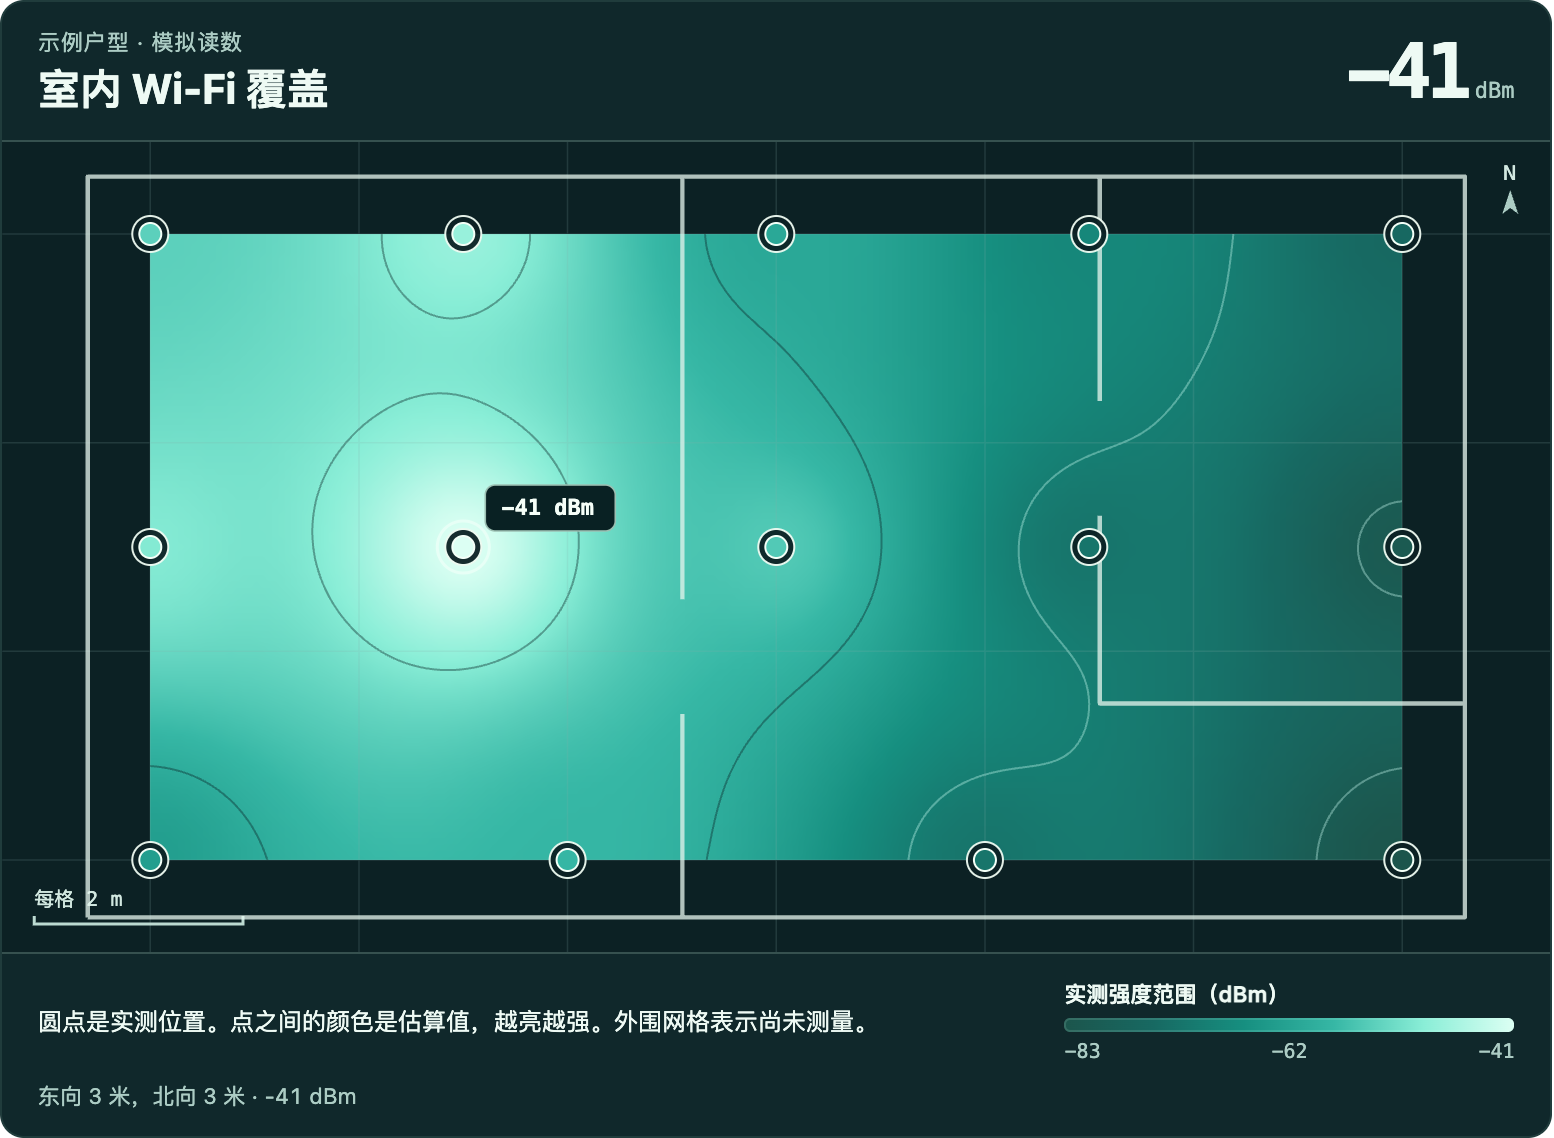
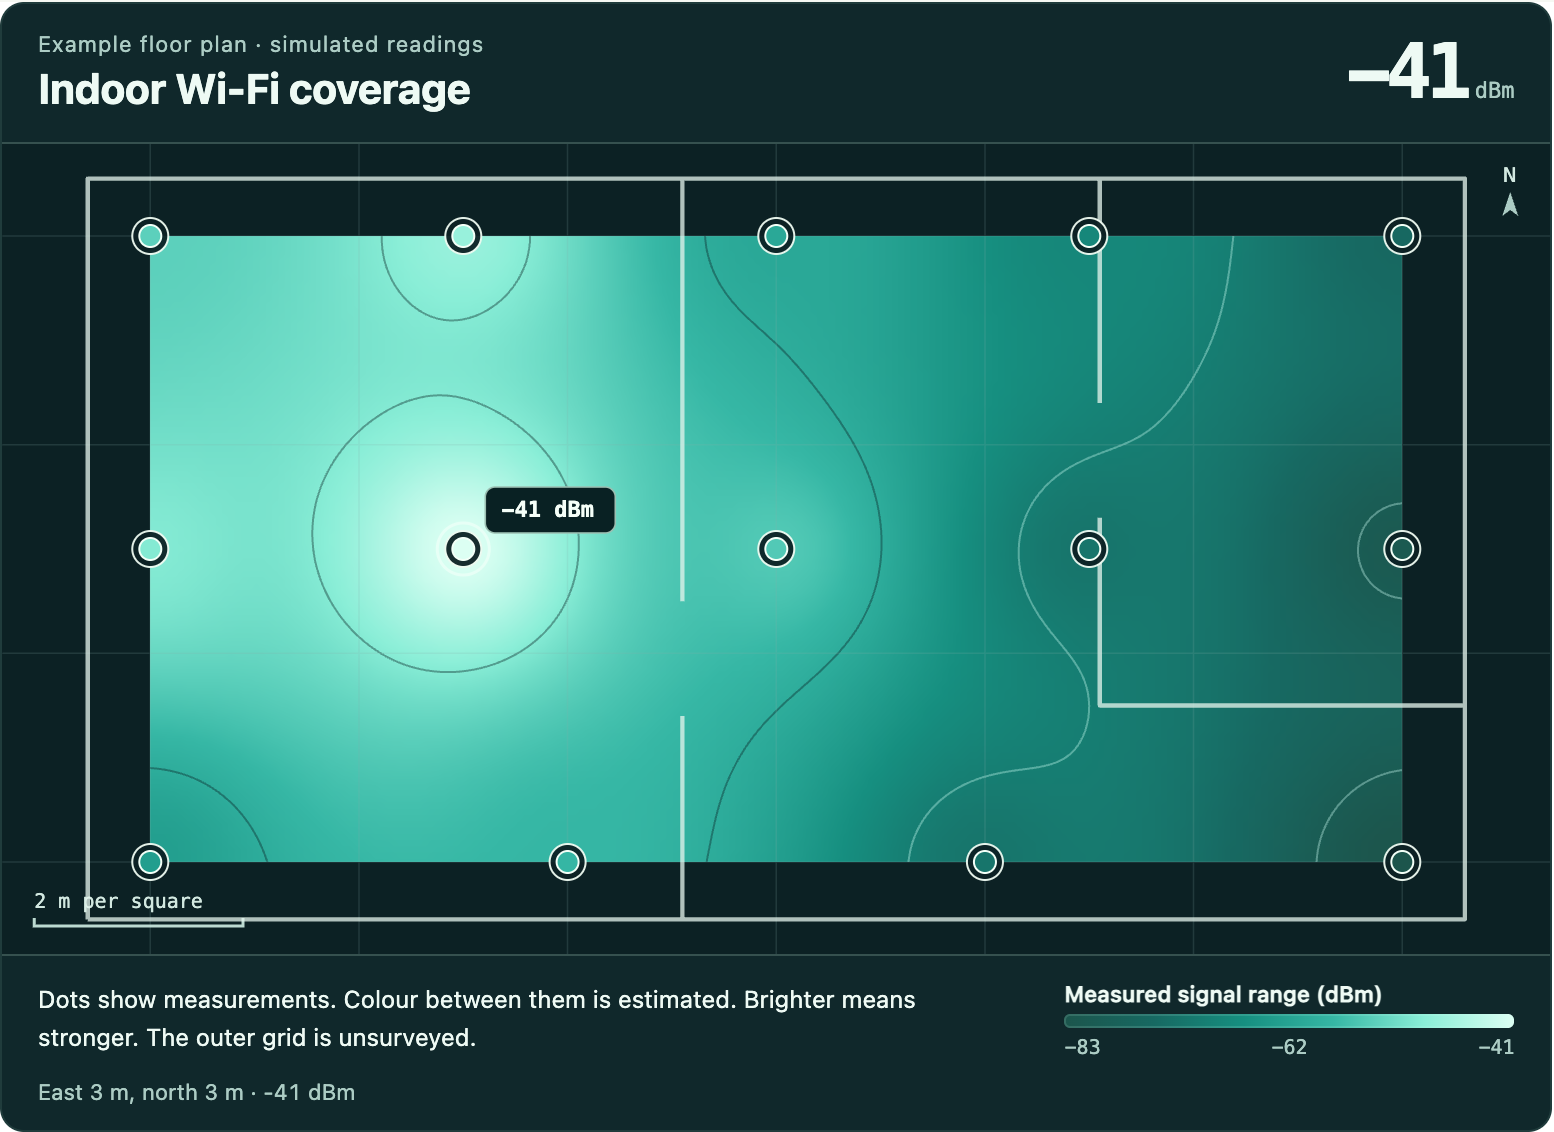
docs: present the XIAO guide and figures in English

diff --git a/README.md b/README.md
@@ -1,52 +1,52 @@
 # ESP32 Marauder for XIAO ESP32-C5
 
-拿着一块 Seeed Studio XIAO ESP32-C5 从门口走到书桌，哪里 Wi-Fi 最强？同一个路由器的 5 GHz 信号，隔一堵墙还剩多少？这个版本把 ESP32 Marauder 的无线测量带进电脑浏览器。XIAO 负责接收信号，USB 把读数送到中英文控制台，在那里可以画 Wi-Fi 和低功耗蓝牙（BLE）覆盖图、比较两个 Wi-Fi 频段，也可以观察走动时的信号变化。
+Carry a Seeed Studio XIAO ESP32-C5 from the doorway to your desk and measure how the Wi-Fi signal changes along the way. This fork pairs Marauder firmware with a local browser console. The board takes the readings and sends them over USB. In the console you can map Wi-Fi or Bluetooth Low Energy (BLE) coverage, compare 2.4 GHz with 5 GHz, and watch how movement affects a Wi-Fi link. The interface is available in English and Simplified Chinese.
 
-![控制台内置的模拟户型热力图。14 个测点分布在户型内，左侧选中点为 −41 dBm，右侧颜色较暗。](pictures/xiao-console/coverage.png)
+![Simulated floor plan with 14 sampling locations. The selected point on the brighter left side reads −41 dBm.](pictures/xiao-console/coverage.png)
 
-*模拟户型，14 个测点。圆点标出采样位置，点之间的颜色是估算值。左侧亮区的信号最强，测量范围外留空。*
+*Built-in example with 14 simulated readings. Each dot marks a sampling location. Brighter areas show stronger reception, and the shading between dots estimates coverage. The grid outside the sampled area stays empty.*
 
-## 先打开控制台
+## Open the console
 
-在仓库根目录运行下面的命令，再用桌面版 Chrome 或 Edge 打开控制台。电脑需要 Python 3。
+From the repository root, start the local server with Python 3 and open it in desktop Chrome or Edge.
 
 ```sh
 python3 -m http.server 8765 --bind 127.0.0.1 --directory xiao-console
 ```
 
-- **先看效果**　打开[热力图示例](http://127.0.0.1:8765/?map=example#advanced)，点不同的圆点就能看坐标和强度。只需电脑就能试。
-- **开始实测**　准备一块已烧录本分支 XIAO 固件的开发板，用 USB-C 数据线接到电脑。打开[本地控制台](http://127.0.0.1:8765/)，点 **连接设备**，选中开发板串口，再进入 **高级工具**。
-- **准备固件**　从源码构建时，选择 `XIAO_ESP32C5` 板型和 Arduino-ESP32 `3.3.4`。本仓库的构建配置列出了 `Seeed XIAO ESP32-C5` 的依赖、8 MB 分区和 USB 设置。[固件源码](esp32_marauder/esp32_marauder.ino) · [板型与构建配置](.github/workflows/build_parallel.yml)
+- **Try it without a board.** Open the heatmap example and select a dot to see its coordinates and signal strength. [Open the local example](http://127.0.0.1:8765/?map=example#advanced)
+- **Take live readings.** Connect a XIAO ESP32-C5 running this fork’s firmware with a USB-C data cable. Open the console, click **Connect device**, select the board’s serial port, then open **Advanced tools**. [Open the local console](http://127.0.0.1:8765/)
+- **Build the firmware.** Select the `XIAO_ESP32C5` board with Arduino-ESP32 `3.3.4`. The `Seeed XIAO ESP32-C5` entry in the build workflow lists the dependencies, 8 MB partition scheme, and USB settings. [Firmware source](esp32_marauder/esp32_marauder.ino) · [Build configuration](.github/workflows/build_parallel.yml)
 
-## 画自己的 Wi-Fi 或蓝牙覆盖图
+## Map Wi-Fi or BLE coverage
 
-1. 在 **信号强度地图 → 我的实测** 选 Wi-Fi 或 BLE，点 **开始监听**，再选要测的接入点或蓝牙设备。地图按无线地址区分设备，即使两个接入点用了相同的名字也能分别测量。
-2. 把门口定为 `(0, 0)`，点 **记录此处**，拿稳开发板。收到所选设备的下一条广播后，页面就会显示这个点的强度。每次最多等 30 秒。
-3. 拿着开发板向东走 2 米，在地图上点新位置，或输入 `(2, 0)`，再记一次。两处能看沿线强弱。从这里向北走 2 米，在 `(2, 2)` 记第三次，三个点围成的区域就会出现热力图。
+1. Open **Signal strength map → My survey**. Choose Wi-Fi or BLE, click **Start listening**, then select your access point or BLE device. The console tracks its radio address, so you can measure two access points separately even if they share a name.
+2. Use the doorway as your origin `(0, 0)`. Click **Record this spot** and hold the board still. The console waits up to 30 seconds for the next broadcast from the selected device and saves its signal strength at that spot.
+3. Walk 2 metres east. Click the new location on the grid or enter `(2, 0)`, then record again. Two points show signal strength along the line between them. Walk 2 metres north and record at `(2, 2)` to see a shaded coverage area inside the triangle.
 
-比例尺随测点间距调整，颜色取当前地图各位置最新读数的最弱值到最强值。回到同一位置复测，地图更新该点的颜色，历史读数都保留在明细里。室外可填经纬度，也可让放在开发板旁边的电脑提供位置。记录保存在当前浏览器的同一站点，可导出 CSV。
+The grid scale adjusts to the distance between locations. The colour scale spans the weakest and strongest of the latest readings at each spot. Measuring a spot again updates its colour and keeps every reading in the history. Outdoors, enter coordinates or use the browser’s location with the computer beside the board. The same browser keeps your survey at the same local address, and you can export the readings to CSV.
 
-## 比较同名 Wi-Fi 的两个频段
+## Compare 2.4 GHz and 5 GHz
 
-在 **双频巡检** 中运行 **开始双频巡检**。扫描结束后，每行对应一个网络名称，两列分别显示 2.4 GHz 和 5 GHz 的信号强度与信道。同一名称在一个频段有多个接入点时，取其中最强的一个。
+Open **Dual-band survey** and run **Start dual-band survey**. Each row groups readings by Wi-Fi name and shows the signal strength and channel on each band. If several access points use the same name on one band, the table shows the strongest one observed on that band.
 
-![双频巡检演示表。Demo-Studio 的 5 GHz 更强，Demo-Loft 的 2.4 GHz 更强，Demo-Sensor 只在 2.4 GHz 被观察到。](pictures/xiao-console/dual-band.png)
+![Example survey table. Demo-Studio is stronger on 5 GHz, Demo-Loft is stronger on 2.4 GHz, and Demo-Sensor was seen only on 2.4 GHz.](pictures/xiao-console/dual-band.png)
 
-*演示数据。Demo-Studio 在 5 GHz 为 −43 dBm，在 2.4 GHz 为 −54 dBm，前者强 11 dB。点 **记下这个位置** 后换个房间再扫，括号里的 `+3` 表示该频段比上个位置强了 3 dB。*
+*Simulated survey. Demo-Studio reads −43 dBm on 5 GHz and −54 dBm on 2.4 GHz, so 5 GHz is 11 dB stronger here. Click **Save this spot** and scan again in another room. The `+3` beside the 5 GHz reading means it gained 3 dB since the saved survey.*
 
-## 用 CSI 看走动时的信号变化
+## Watch movement with CSI
 
-CSI（信道状态信息）能反映 Wi-Fi 信号在路由器与开发板之间的传播变化。在 **动作感应（CSI）** 中选自己的接入点，再选感应方式。两种方式共用同一份扫描结果。
+Channel state information (CSI) describes how a Wi-Fi signal travels between the access point and the board. In **Motion sensing (CSI)**, select your own access point and choose a sensing mode. Both modes use the same scan results.
 
-- **被动监听（免密码）**　开发板监听所选接入点。先让周围保持静止约 30 秒，再从开发板和路由器之间走过。隐藏网络可手填无线地址（BSSID）和信道。
-- **网关自测（60 秒）**　想先确认能否采到数据，可选开发板上已保存的 Wi-Fi，启动自测。开发板向当前网关发送普通 Ping。前 30 秒保持静止，后半段再走动，结束后曲线会留在页面上。
+- **Passive listening (no password).** Keep the board and its surroundings still for about 30 seconds to establish a baseline, then walk between the board and the router. For a hidden network, you can enter its radio address (BSSID) and channel.
+- **Gateway self-test (60 seconds).** To check that samples are coming through, choose a network already saved on the board. During the test, the board sends ordinary pings to its gateway. Keep still for the first 30 seconds, then walk through the link. The last curve stays visible when the test ends.
 
-![XIAO ESP32-C5 真机网关自测后的 CSI 曲线。校准阶段留白，后半段出现两次起伏，末次动作分数为 2，每秒采样为 5。](pictures/xiao-console/csi-self-test.png)
+![Recorded gateway self-test on a XIAO ESP32-C5. The curve starts after calibration and shows two peaks. The final motion score is 2 at 5 samples per second.](pictures/xiao-console/csi-self-test.png)
 
-*真机网关自测。先看 **每秒采样**，大于 0 表示正在收到样本。再看 **动作分数**，`—` 表示当前没有可用分数，`0` 是有效读数。图中末次读数为每秒 5 个样本、动作分数 2。*
+*Recorded on hardware. A **SAMPLES/S** value above zero means samples are arriving. Under **MOTION**, a dash means the board has no usable score yet, while `0` is a valid score. This run ended at 5 samples per second with a motion score of 2.*
 
-## 其他入口
+## More tools and documentation
 
-基础命令页可以逐项查看命令用途、运行扫描、筛选 Wi-Fi 结果并导出 Wi-Fi 或蓝牙清单。高级工具还支持将 USB 抓包保存为电脑上的 PCAP 文件，以及查看外接 GPS 模块的定位状态。操作步骤见[控制台指南](xiao-console/README.md)。
+Basic commands include timed scans and device lists. You can filter Wi-Fi results and export Wi-Fi or Bluetooth inventories to CSV. Advanced tools can save a USB packet capture as a PCAP file on your computer or show the fix status of an external GPS module. [Console guide](xiao-console/README.md)
 
-本项目基于 JustCallMeKoko 的 [ESP32 Marauder](https://github.com/justcallmekoko/ESP32Marauder)。其他 Marauder 硬件和通用固件文档见[上游 Wiki](https://github.com/justcallmekoko/ESP32Marauder/wiki)，项目采用 [MIT 许可证](LICENSE)。
+This fork builds on JustCallMeKoko’s ESP32 Marauder. See the upstream project and wiki for other Marauder hardware and general firmware documentation. [Upstream project](https://github.com/justcallmekoko/ESP32Marauder) · [Upstream wiki](https://github.com/justcallmekoko/ESP32Marauder/wiki) · [MIT license](LICENSE)
